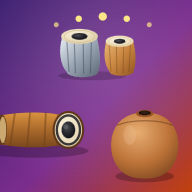
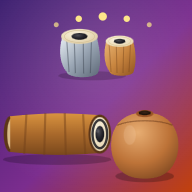
Redo mridangam graphic; make Lockdown visual cycle independent of audio
1. Mridangam redrawn as a longer tapered barrel — small bass (thoppi) head
   at left, syahi-bearing treble head at right — so it reads as a mridangam
   rather than a single front-facing drum. Updated icon.svg, icon-fullbleed.svg
   and regenerated the PNG touch icons.

2. Compatibility engine: the visual was driven by the looped <audio> element's
   currentTime, so when iOS Lockdown Mode blocked playback the beat never
   advanced visually. The visual now runs on an independent wall clock, so the
   cycle animates even with no sound. Added audio-progress detection and a
   status line ("playing" / "BLOCKED by OS") plus an on-screen note explaining
   that Lockdown Mode blocks web audio and how to exclude the site in Safari.

Changed region(s): [[0.0, 0.5625, 0.5938, 0.875]]

diff --git a/index.html b/index.html
@@ -228,6 +228,13 @@
       <label class="toggle"><input type="checkbox" id="t-bols" checked> Speak bols / counts visually</label>
       <label class="toggle" title="Forces a plain-audio engine that works when the Web Audio API is blocked, e.g. iOS Lockdown Mode."><input type="checkbox" id="t-compat"> Compatibility sound (iOS Lockdown)</label>
     </div>
+    <p class="note" id="lockdown-note" style="font-size:.82rem">
+      <strong>No sound on iPhone?</strong> iOS <em>Lockdown Mode</em> blocks all web audio. The beat will
+      still cycle visually. To get sound, open this page in Safari, tap the <strong>“ɑA”</strong> button in
+      the address bar → <strong>Website Settings</strong> (or the page menu) → turn <strong>off</strong>
+      Lockdown Mode for this site, then reload. The status line at the bottom shows whether audio is playing
+      or blocked.
+    </p>
 
     <div class="trainer-row">
       <div class="ctl">
@@ -353,7 +360,7 @@
        Tip: press <code>Space</code> to start/stop, <code>↑/↓</code> to change tempo.</p>
     <p><a href="https://github.com/revurpk/metronome" id="gh-link">Source on GitHub</a> · Free &amp; open. Practice well. 🙏</p>
     <p>© 2026 Pradyumna Revur · Released under the <a href="https://github.com/revurpk/metronome/blob/main/LICENSE">MIT License</a></p>
-    <p style="opacity:.6;font-size:.78rem">build 2026-06-14g · <span id="audio-status">audio: initialising…</span></p>
+    <p style="opacity:.6;font-size:.78rem">build 2026-06-14h · <span id="audio-status">audio: initialising…</span></p>
   </footer>
 </div>
 
@@ -561,38 +568,60 @@ const Engine = (()=> {
     loopUrl=pcmToWavUrl(out);
     return loopUrl;
   }
+  let htmlStartWall=0, htmlAudioOk=null, audioCheckTimer=null;
+  function tryPlayLoop(){
+    loopEl.loop=true; loopEl.src=renderCycle(); loopEl.volume=volume;
+    try{ const pr=loopEl.play(); if(pr&&pr.catch) pr.catch(()=>{ htmlAudioOk=false; }); }catch(e){ htmlAudioOk=false; }
+  }
   function startHtml(){            // compatibility backend entry point
     backend="html"; onFallback();
-    if(!loopEl){ loopEl=new Audio(); }
-    loopEl.loop=true; loopEl.src=renderCycle(); loopEl.volume=volume;
-    lastIdx=-1; cycleCount=0;
-    try{ const pr=loopEl.play(); if(pr&&pr.catch) pr.catch(()=>{}); }catch(e){}
+    if(!loopEl){
+      loopEl=new Audio(); loopEl.setAttribute("playsinline","");
+      // Some iOS versions only play <audio> that is attached to the document.
+      loopEl.style.display="none"; document.body.appendChild(loopEl);
+    }
+    htmlAudioOk=null;
+    tryPlayLoop();
+    // The VISUAL runs on an independent wall clock, so the cycle animates even if
+    // the OS blocks audio playback (e.g. iOS Lockdown Mode).
+    htmlStartWall=performance.now(); lastIdx=-1; cycleCount=0;
     loopVisual();
+    // After a moment, see whether audio actually advanced and report it.
+    if(audioCheckTimer) clearTimeout(audioCheckTimer);
+    audioCheckTimer=setTimeout(()=>{
+      htmlAudioOk = !!(loopEl && loopEl.currentTime>0.02 && !loopEl.paused);
+    }, 600);
   }
   function reloadLoop(){           // re-render after a tempo/setting change (same element)
     if(!loopEl) return;
-    loopEl.src=renderCycle(); loopEl.loop=true; loopEl.volume=volume;
-    try{ const pr=loopEl.play(); if(pr&&pr.catch) pr.catch(()=>{}); }catch(e){}
+    tryPlayLoop();
+    htmlStartWall=performance.now(); lastIdx=-1;   // keep visual clock aligned to audio restart
   }
   function loopVisual(){
     if(!running){ return; }
-    let idx=0;
-    if(loopEl && cycleLen>0){
-      const into=loopEl.currentTime % cycleLen;
-      idx=Math.min(beats.length-1, Math.floor(into/beatDur));
-    }
+    const elapsed=(performance.now()-htmlStartWall)/1000;
+    const cyc=cycleLen>0 ? Math.floor(elapsed/cycleLen) : 0;
+    const into=cycleLen>0 ? (elapsed - cyc*cycleLen) : 0;
+    let idx=Math.min(beats.length-1, Math.floor(into/beatDur));
     if(idx!==lastIdx){
       onBeat(idx, false, 0);
-      if(idx===0 && lastIdx>0){           // wrapped to a new cycle
+      if(idx===0 && lastIdx>0){            // wrapped to a new cycle
         cycleCount++; onCycle(cycleCount);
         if(trainerStep>0 && cycleCount%trainerEvery===0){ setBpm(Math.min(300,bpm+trainerStep)); }
       }
       lastIdx=idx;
     }
-    visualTimer=setTimeout(loopVisual, 30);
+    visualTimer=setTimeout(loopVisual, 25);
+  }
+  function audioState(){
+    if(backend==="webaudio") return "webaudio";
+    if(htmlAudioOk===false) return "blocked";
+    if(htmlAudioOk===true) return "playing";
+    return "starting";
   }
   function stopHtml(){
     if(visualTimer){ clearTimeout(visualTimer); visualTimer=null; }
+    if(audioCheckTimer){ clearTimeout(audioCheckTimer); audioCheckTimer=null; }
     if(loopEl){ try{ loopEl.pause(); }catch(e){} }
   }
 
@@ -733,7 +762,7 @@ const Engine = (()=> {
     if(backend==="html" && running) reloadLoop();   // re-render with new settings
   }
   return { start, stop, setBpm, setVolume, setLive, isRunning:()=>running,
-           getBackend:()=>backend, ensure, prime:buildClicks };
+           getBackend:()=>backend, audioState, ensure, prime:buildClicks };
 })();
 
 /* ============================================================
@@ -869,7 +898,9 @@ function startStop(){
     trainerEvery: Math.max(1,parseInt(el.trainerEvery.value,10)||4),
     onBeat: (idx,counting,cPos)=>{
       const st=$("#audio-status");
-      if(st) st.textContent = "audio: "+(Engine.getBackend()==="html"?"compatibility (plain)":"Web Audio");
+      if(st){ const s=Engine.audioState();
+        st.textContent = "audio: " + ({webaudio:"Web Audio", playing:"compatibility (playing)",
+          starting:"compatibility (starting…)", blocked:"compatibility (BLOCKED by OS — see note)"}[s]||s); }
       if(counting){
         el.gMeta.textContent="Count-in… "+(cPos+1);
         el.gBol.textContent="•";